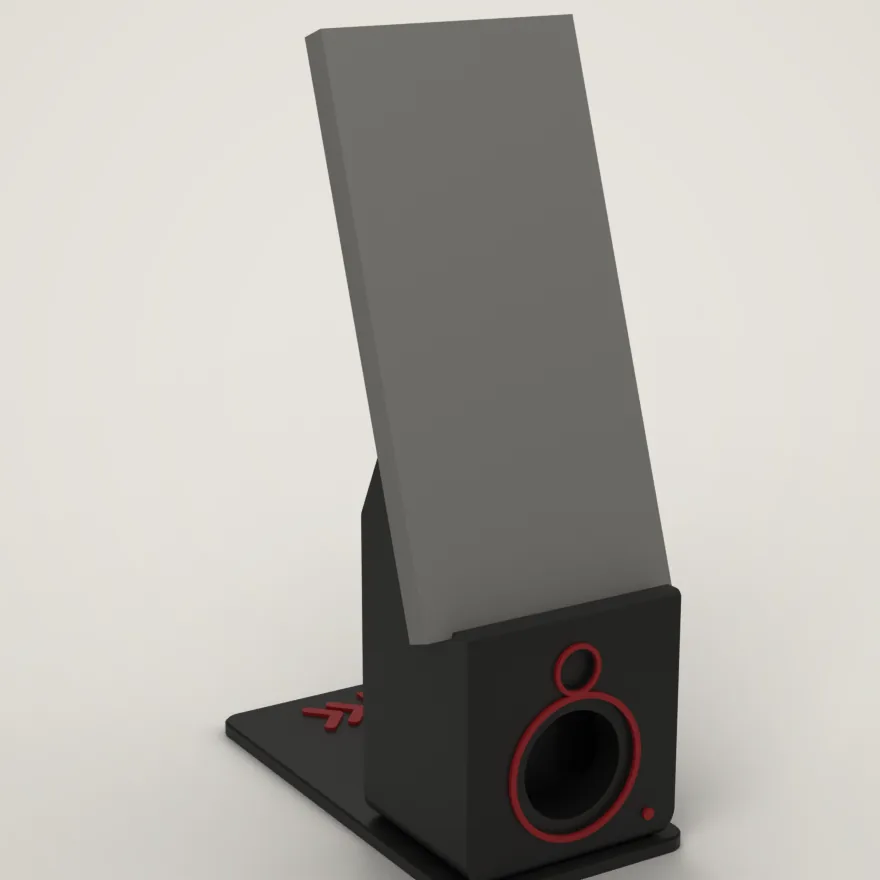
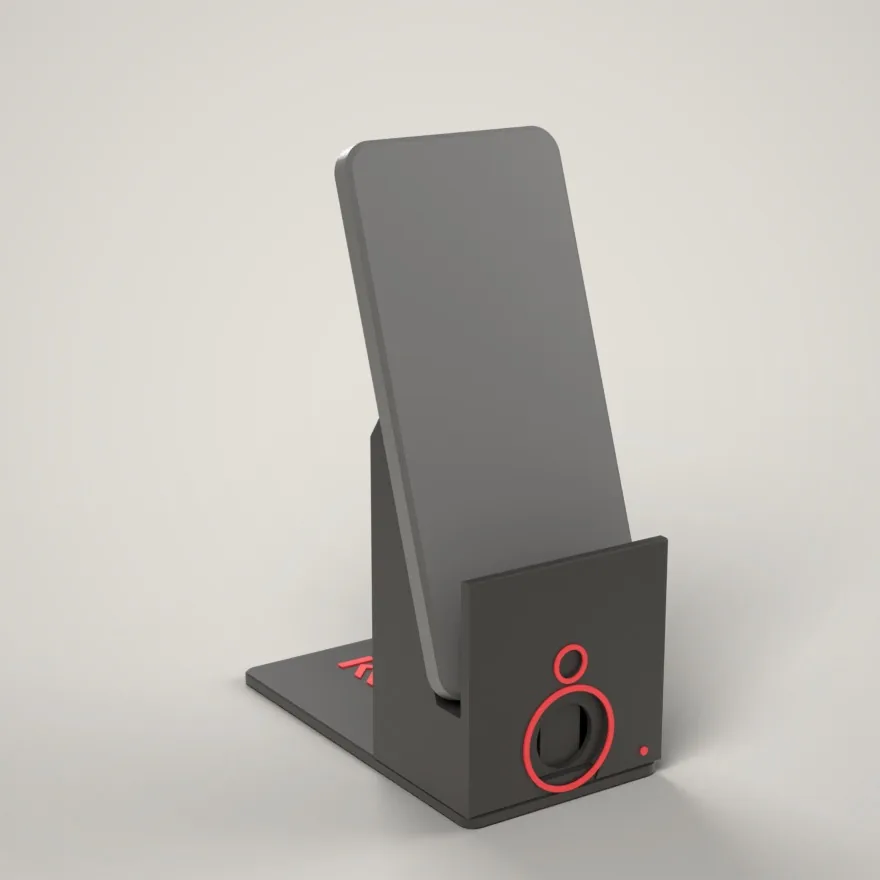
Horn hero re-rendered from the rebuilt CAD: phone back on the 71 degree ramp, bottom in the seat
Claude-Session: https://claude.ai/code/session_012J3bizLzXPTG4v9UE7BMcM

Changed region(s): [[0.2455, 0.0, 0.9511, 1.0]]

diff --git a/print-files/cad/build2.py b/print-files/cad/build2.py
@@ -302,10 +302,9 @@ def build_horn():
     p.part("stand", rot(U([stand]), -90, 0, 0), BLACK, infill=0.15)
     p.part("speaker_rings", rot(red, -90, 0, 0), RED, infill=1.0)
     p.part("plate", plate, BLACK, infill=0.4); p.part("plate_mark", mark, RED, infill=1.0)
-    phone = mv(rot(body(rrect(75, 160, 9), 9, c=1.5, steps=3, bottom=True), 90 - 71 + 90 - 90, 0, 0), 0, 0, 0)
-    ph = mv(rot(rot(body(rrect(75, 160, 9), 9.0, c=1.5, steps=3, bottom=True), 0, 0, 0), -(90 - 71) + 0, 0, 0), 0, 0, 0)
-    ph = mv(rot(mv(body(rrect(75, 160, 9), 9.0, c=1.5, steps=3, bottom=True), 0, 80, 0), 90 - 19, 0, 0), 0, 0, 0)
-    ph = mv(rot(ph, 0, 0, 0), 0, -20.5 + 0.2, 29.2 + 4.0)
+    # phone: 9 mm thick, back face on the 71 degree ramp, bottom-back edge in the corner of the seat
+    ph = mv(rot(body(rrect(75, 160, 9), 9.0, c=1.5, steps=3, bottom=True), 90, 0, 0), 0, 0, 80)     # thickness along -y, back face y = 0
+    ph = mv(rot(ph, -(90 - 71), 0, 0), 0, -9.0 - 0.3, 29.0 + 4.0 + 0.3)
     built = [(mv(stand, 0, 0, 4.0), BLACK), (mv(red, 0, 0, 4.0), RED), (plate, BLACK), (mark, RED)]
     p.scene("phonestand", built + [(ph, PROP)])
     p.scene("bp_D1", built); p.scene("bpo_D1", built); p.scene("phonestand_horn_seat", built)
